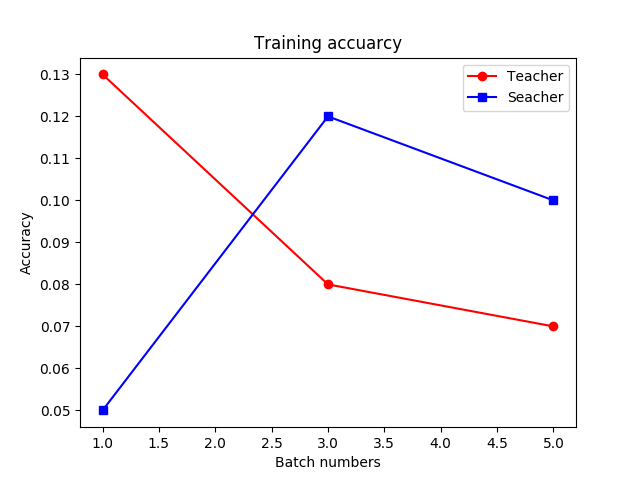
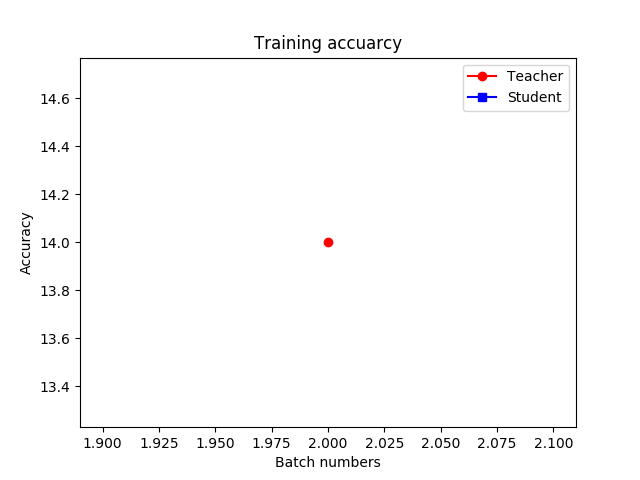
feat(home make acc calculate)

diff --git a/train.py b/train.py
@@ -19,7 +19,7 @@ from matplotlib import pyplot as plt
 # local module
 from core.data import (pickle_load, cifar_img_reshape, cifar_label_map, cifar_load, save_img)
 from core.debug import (log, msg)
-from core.measure import (measure, draw_line_graph)
+from core.measure import (measure, calculate_accuracy, draw_line_graph)
 from model.alexnet import Alexnet
 from model.student import Student
 import setting
@@ -59,12 +59,12 @@ def main():
 
             for batch_number in range(100):
                 print('Train in batch number: %d'.ljust(30, '-') % batch_number)
-                x_batch, y_batch = cifar_load(data, start_idx = (batch_number * batch_size), end_idx = (batch_number + 1) * batch_size)
+                x_batch, y_batch, label_list= cifar_load(data, start_idx = (batch_number * batch_size), end_idx = (batch_number + 1) * batch_size)
 
                 # evaluate accuracy, save picture
                 if snapshop_token.check() is True:
                     trained_batches += setting.snapshop_default
-                    teacher.save_record((trained_batches, teacher.model.evaluate(x_batch, y_batch, steps=32, verbose = 1)))
+                    teacher.save_record((trained_batches, calculate_accuracy(teacher.model.predict(x_batch), label_list) ))
                     # student.save_record((trained_batches, student.model.evaluate(x_batch, y_batch, steps = 10)))
                     draw_line_graph([
                         teacher.format_record('Teacher'),

diff --git a/core/measure.py b/core/measure.py
@@ -13,6 +13,35 @@ def measure(data = None, name = 'NAN'):
         print('\t%s bytes, \t%s KB, \t%s MB' % (size, size / 1024, size / 1048576))
         print()
 
+def find_prediction(predict = None):
+    '''
+    Find prediction from softmax result
+    return example: [0 , 0, 1, 0, 0]
+    '''
+    predict = list(predict)
+    if predict is None: raise Exception('Prediction must given')
+
+    tmp = [0 for _ in range(len(predict))]
+    # set the highest probiblity to 1
+    tmp[predict.index(max(predict))] = 1
+    return tmp
+
+def calculate_accuracy(predictions = None, labels = None):
+    '''
+    retrun accuracy of a list of prediction
+    labels is a list of number
+    '''
+    if predictions is None or labels is None: raise Exception('Params not given enough')
+
+    predictions = [find_prediction(predict) for predict in predictions]
+    predict_correct = 0
+    check_predict = lambda x, y: 1 if x.index(max(x)) == y else 0
+    for idx, label in enumerate(labels):
+        predict_correct += check_predict(predictions[idx], labels[idx])
+
+    return (predict_correct / len(labels)) * 100
+    
+
 def draw_line_graph(datas = None, save_path = None):
     if datas is None: raise Exception('Datas must given')
     if len(datas) > 3: raise Exception('3 data is the max')

diff --git a/core/data.py b/core/data.py
@@ -35,7 +35,8 @@ def cifar_load(data, start_idx = None, end_idx = None ,max_size = None):
     """Load data from cifar"""
     x_data = cifar_img_reshape(data[b'data'][start_idx : end_idx or max_size])
     y_data = tf.one_hot(data[b'labels'][start_idx :end_idx or max_size], 10)
-    return (x_data, y_data)
+    label_list = data[b'labels'][start_idx :end_idx or max_size]
+    return (x_data, y_data, label_list)
 
 def cifar_label_map(lable_arr):
     lable_dict = {

diff --git a/setting.py b/setting.py
@@ -13,7 +13,7 @@ batch_size = 100
 # student_follow: 
 #       After the number of batches teacher trained, student will use teachers output to train
 student_follow = 5 # batches
-snapshop_default = 4 # batches
+snapshop_default = 2 # batches
 
 class token:
     def __init__(self):

diff --git a/model/p_model.py b/model/p_model.py
@@ -37,5 +37,5 @@ class Parent_model:
         return {
             'lable': label,
             'x': [item[0] for item in self.accuracy],
-            'y': [item[1][1] for item in self.accuracy]
+            'y': [item[1] for item in self.accuracy]
         }
